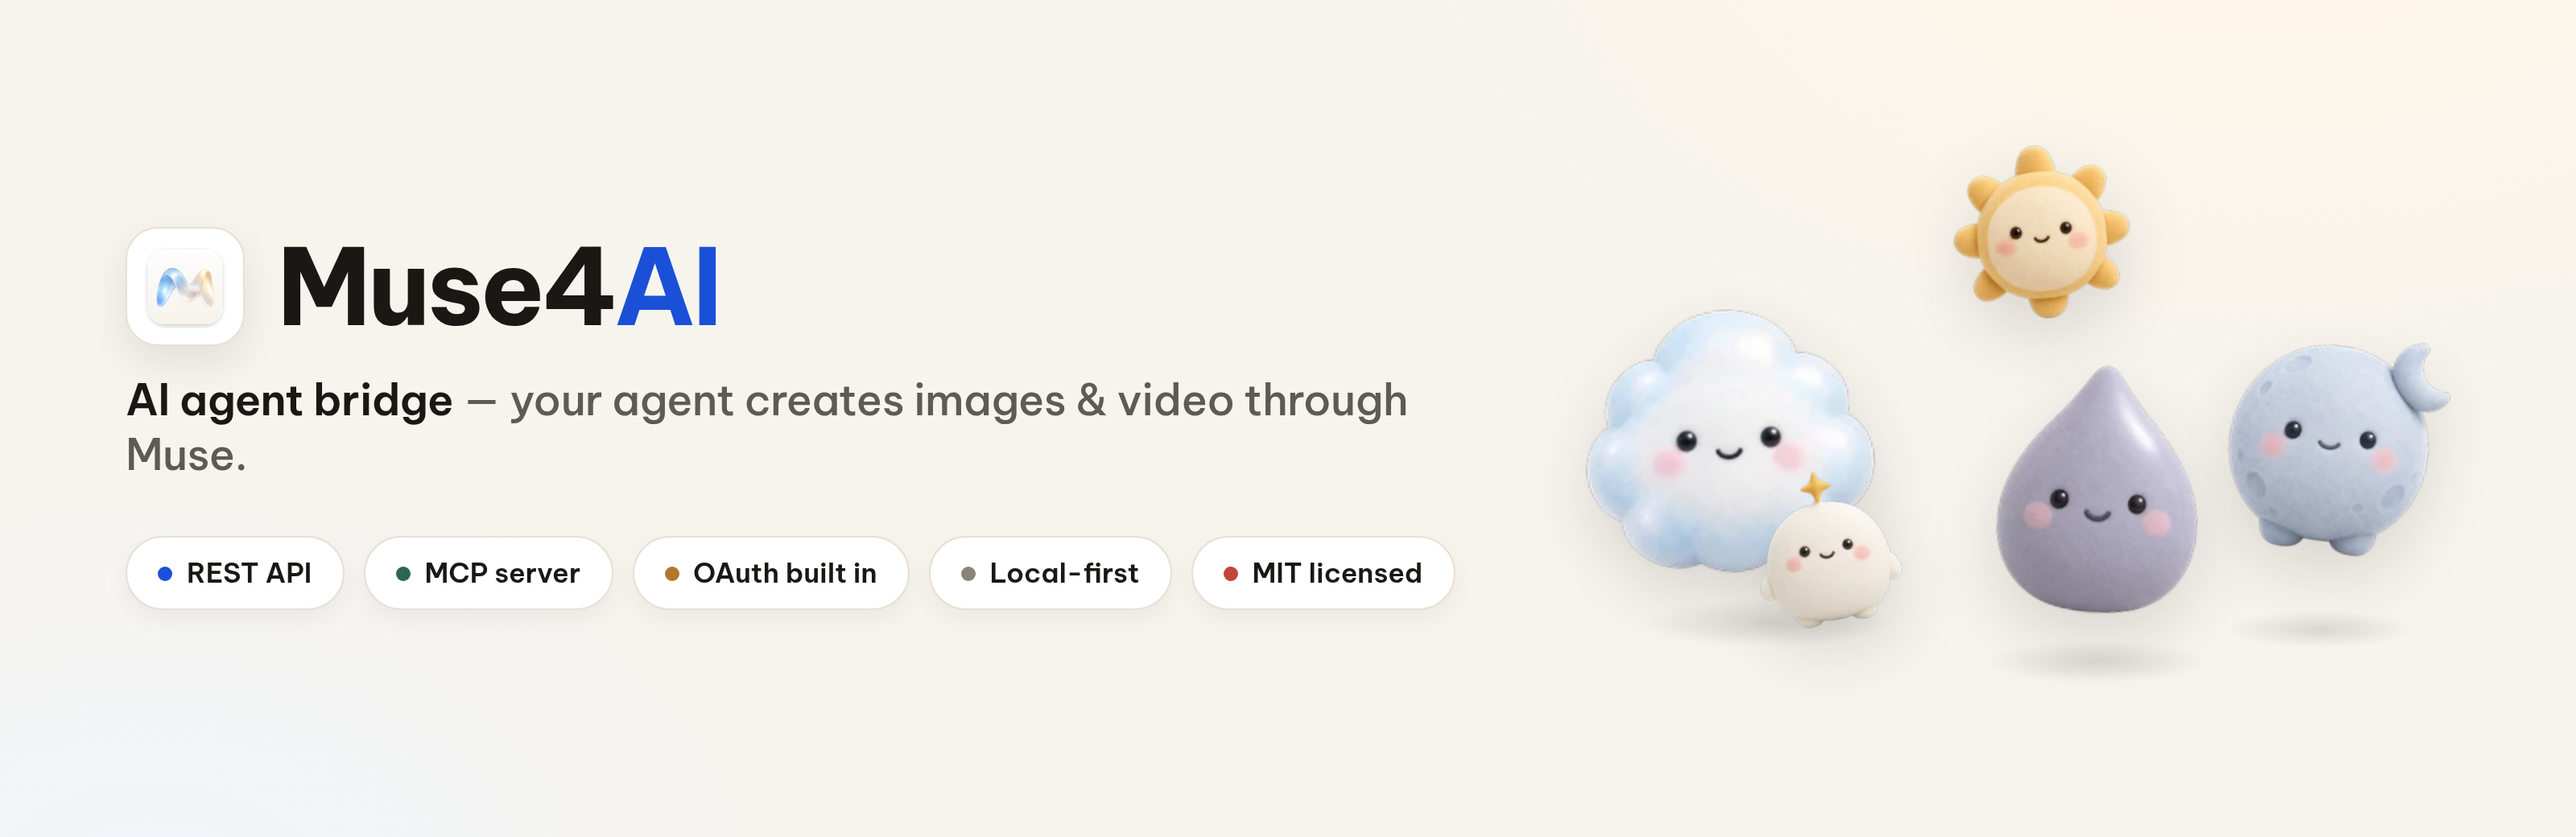
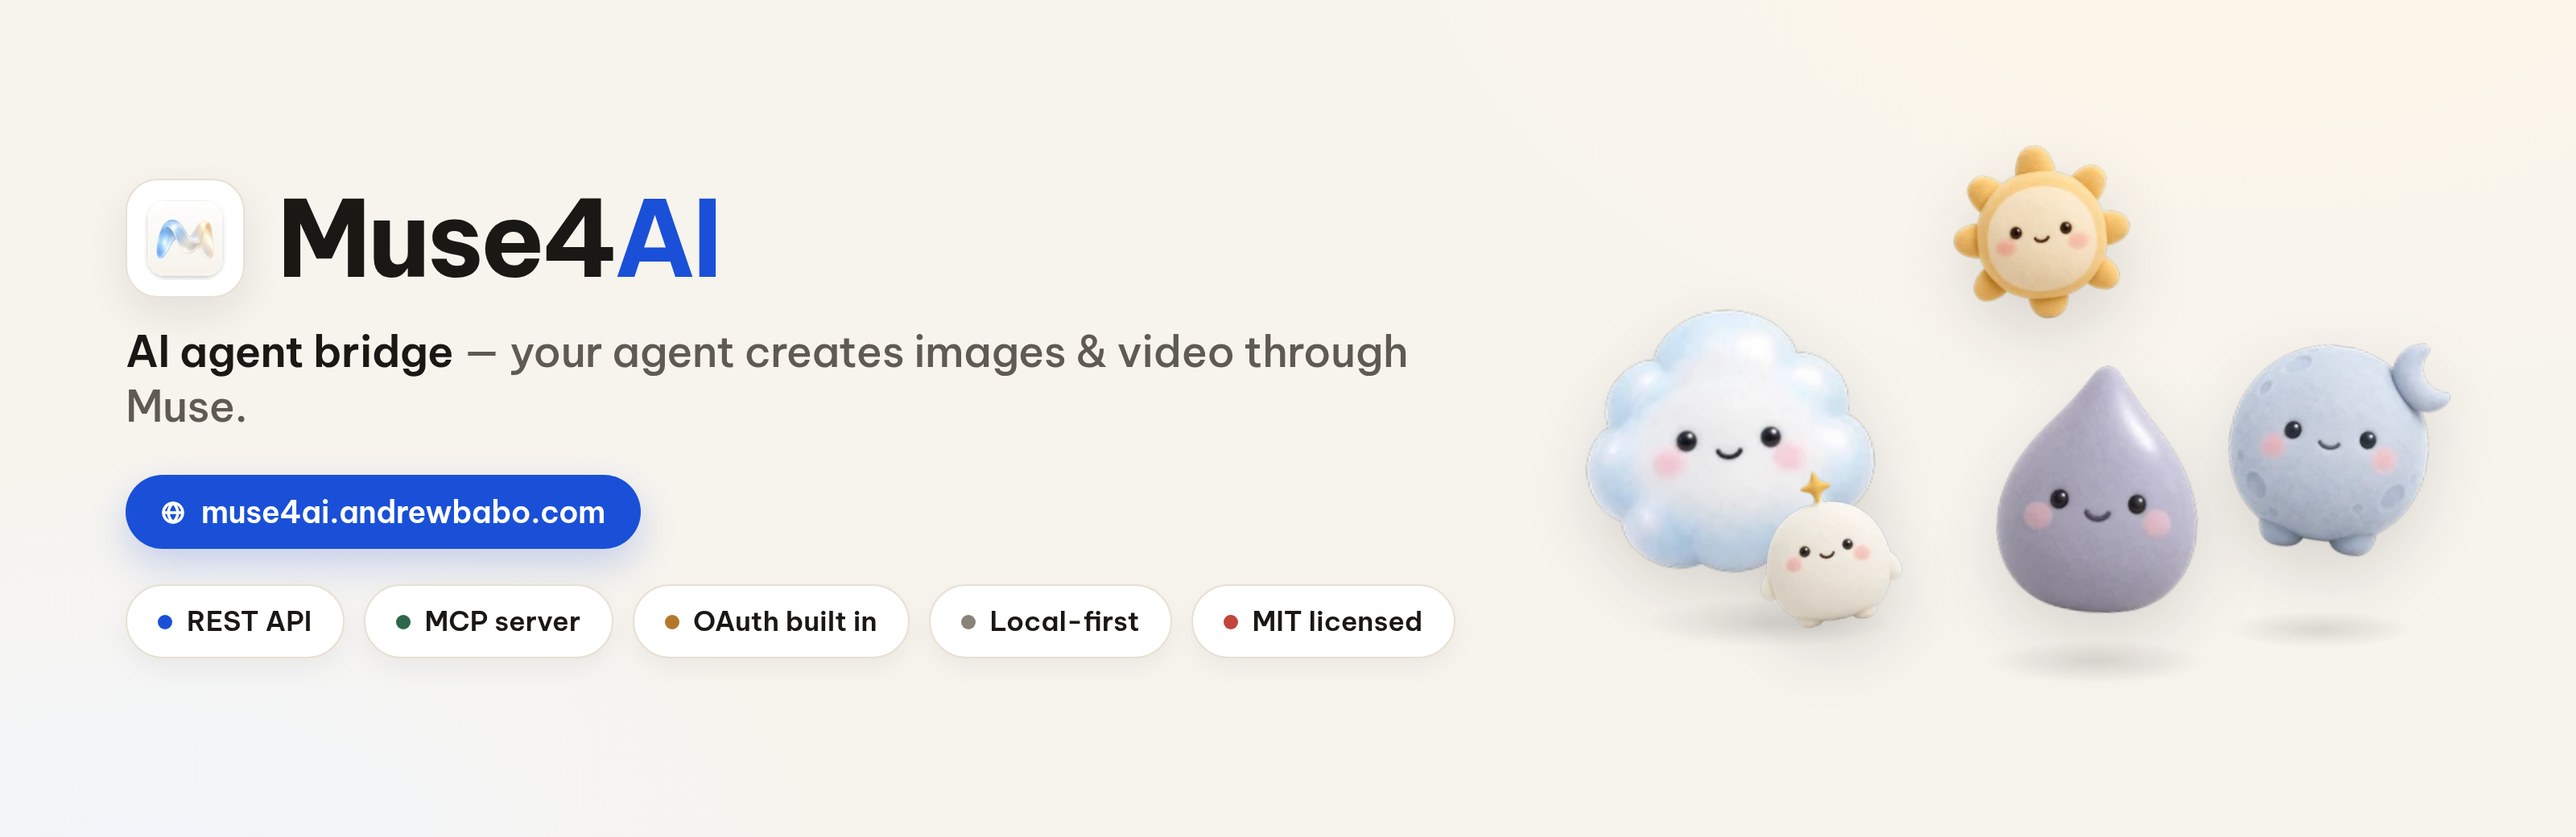
Update README website links and hero image from beta.31-v3.

Changed region(s): [[0.0312, 0.2154, 0.5625, 0.7692]]

diff --git a/docs/README-vi.md b/docs/README-vi.md
@@ -10,11 +10,13 @@ Muse4AI chạy ngay trên máy Windows của bạn và đưa phiên Muse của b
 Claude, Cursor, Codex, n8n hay bất cứ công cụ nào biết gọi **REST**, **MCP** hoặc
 **OAuth** — không qua máy chủ trung gian, không phí theo lượt.
 
+[**Website**](https://muse4ai.andrewbabo.com/vi) ·
 [Tải về](https://muse4ai.andrewbabo.com/vi/download) ·
 [Hướng dẫn](https://muse4ai.andrewbabo.com/vi/docs) ·
 [Dành cho agent](https://muse4ai.andrewbabo.com/vi/agents) ·
 [English](../README.md)
 
+![Website muse4ai.andrewbabo.com](https://img.shields.io/badge/website-muse4ai.andrewbabo.com-1A50D7?style=flat-square)
 ![Giấy phép MIT](https://img.shields.io/badge/license-MIT-2D664D?style=flat-square)
 ![Windows](https://img.shields.io/badge/Windows-10%20%2F%2011-1A50D7?style=flat-square)
 ![Node.js 22+](https://img.shields.io/badge/Node.js-22%2B-5F5A52?style=flat-square)

diff --git a/README.md b/README.md
@@ -10,11 +10,13 @@ Muse4AI runs on your own Windows PC and hands your Muse session to ChatGPT, Clau
 Cursor, Codex, n8n or anything else that speaks **REST**, **MCP** or **OAuth** —
 with no cloud middleman and no per-seat fee.
 
+[**Website**](https://muse4ai.andrewbabo.com) ·
 [**Download**](https://muse4ai.andrewbabo.com/download) ·
 [**Guide**](https://muse4ai.andrewbabo.com/docs) ·
 [**For agents**](https://muse4ai.andrewbabo.com/agents) ·
 [Tiếng Việt](docs/README-vi.md)
 
+![Website muse4ai.andrewbabo.com](https://img.shields.io/badge/website-muse4ai.andrewbabo.com-1A50D7?style=flat-square)
 ![MIT licensed](https://img.shields.io/badge/license-MIT-2D664D?style=flat-square)
 ![Windows](https://img.shields.io/badge/Windows-10%20%2F%2011-1A50D7?style=flat-square)
 ![Node.js 22+](https://img.shields.io/badge/Node.js-22%2B-5F5A52?style=flat-square)
